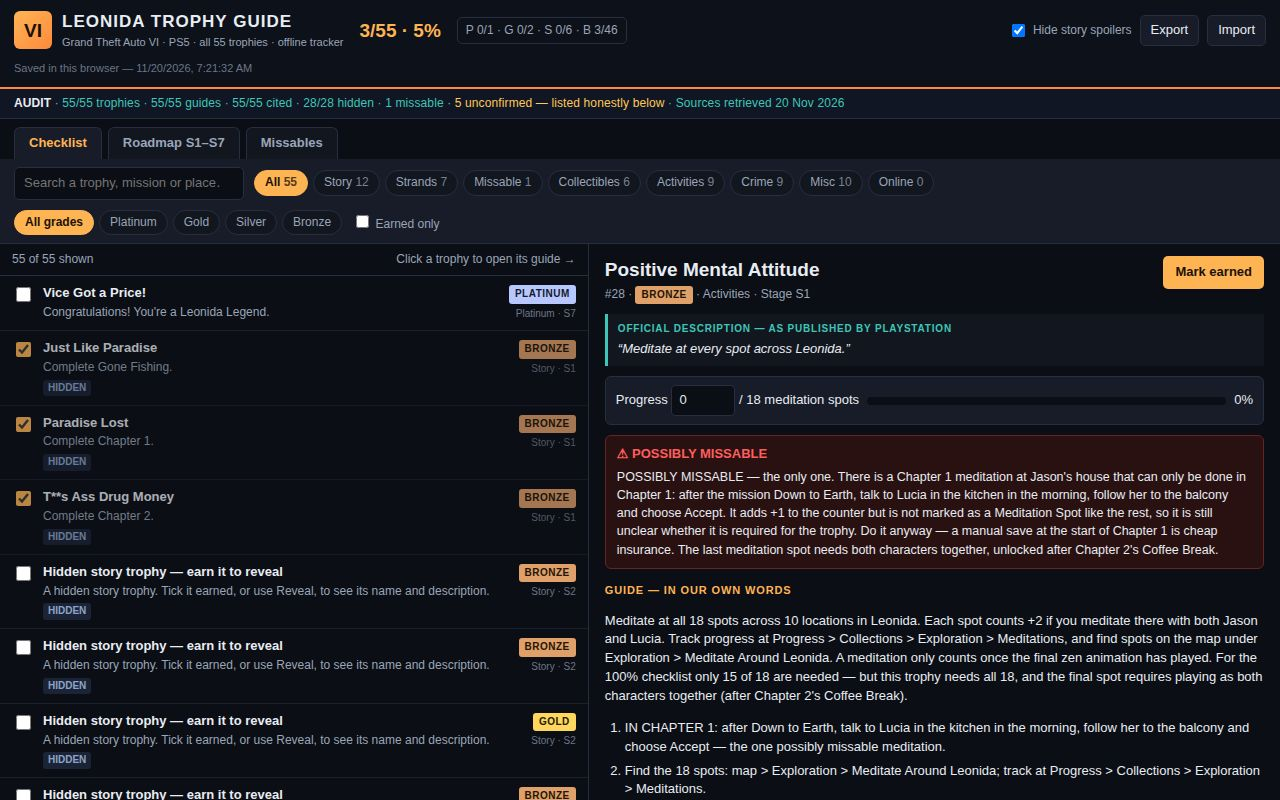
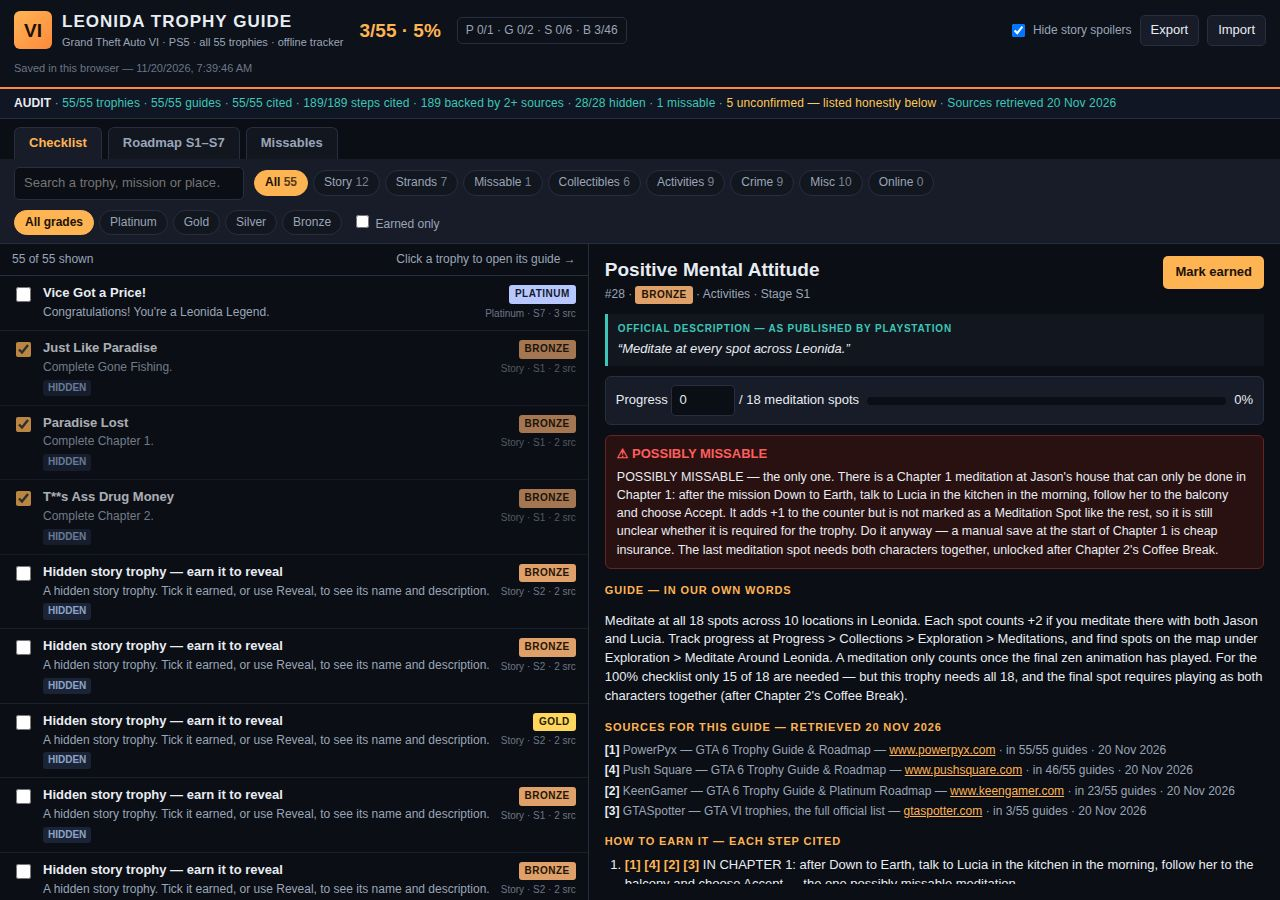
trophy-guide v2: visible per-step citations + sources panel + audit claim counts

diff --git a/app/app.js b/app/app.js
@@ -24,6 +24,41 @@ let trophies = [];
 let state = { earned: {}, counters: {}, spoiler: true, savedAt: null };
 let ui = { view: 'checklist', kind: 'all', grade: 'all', earnedOnly: false, search: '', selected: null };
 
+// Global source registry: the guides this entry cites, numbered once in
+// first-appearance order, so every step can carry its citations [n] and every
+// SOURCES panel can say how many of the 55 guides cite each one.
+let sourceRegistry = []; // [{name, url, count}] in first-appearance order
+let sourceIndex = {};    // url -> 1-based global number
+let auditSteps = { total: 0, cited: 0, backed2: 0 };
+function buildSourceRegistry() {
+  sourceRegistry = [];
+  sourceIndex = {};
+  for (const t of trophies) {
+    for (const s of (t.sources || [])) {
+      if (!(s.url in sourceIndex)) {
+        sourceIndex[s.url] = sourceRegistry.length + 1;
+        sourceRegistry.push({ name: s.name, url: s.url, count: 0 });
+      }
+    }
+  }
+  for (const t of trophies) {
+    const seen = new Set();
+    for (const s of (t.sources || [])) {
+      if (!seen.has(s.url)) { seen.add(s.url); sourceRegistry[sourceIndex[s.url] - 1].count++; }
+    }
+  }
+  auditSteps = { total: 0, cited: 0, backed2: 0 };
+  for (const t of trophies) {
+    const n = (t.steps || []).length;
+    auditSteps.total += n;
+    if (t.sources && t.sources.length) auditSteps.cited += n;
+    if (t.sources && t.sources.length >= 2) auditSteps.backed2 += n;
+  }
+}
+function sourceNumbers(t) { return (t.sources || []).map((s) => sourceIndex[s.url]); }
+function citeString(t) { return sourceNumbers(t).map((n) => '[' + n + ']').join(' '); }
+function shortHost(url) { return url.replace(/^https?:\/\//, '').split('/')[0]; }
+
 function loadState() {
   try {
     const raw = localStorage.getItem(KEY);
@@ -83,6 +118,7 @@ function renderAudit() {
   const unconf = trophies.filter((t) => t.unconfirmed).length;
   document.getElementById('audit').innerHTML =
     '<b>AUDIT</b> · ' + total + '/55 trophies · ' + guides + '/55 guides · ' + cited + '/55 cited · ' +
+    auditSteps.cited + '/' + auditSteps.total + ' steps cited · ' + auditSteps.backed2 + ' backed by 2+ sources · ' +
     hidden + '/28 hidden · ' + miss + ' missable · <span class="warn">' + unconf +
     ' unconfirmed — listed honestly below</span> · Sources retrieved ' + RETRIEVED;
 }
@@ -122,7 +158,7 @@ function renderList() {
       '<span><span class="t-name">' + escapeHtml(displayName(t)) + '</span><br>' +
       '<span class="t-desc">' + escapeHtml(displayDesc(t)) + '</span>' + counter + '<br>' + flags.join(' ') + '</span>' +
       '<span class="t-meta"><span class="grade ' + t.grade + '">' + t.grade + '</span>' +
-      '<span class="t-kind">' + (KIND_LABELS[t.kind] || t.kind) + ' · S' + t.stage + '</span></span></li>';
+      '<span class="t-kind">' + (KIND_LABELS[t.kind] || t.kind) + ' · S' + t.stage + ' · ' + (t.sources || []).length + ' src</span></span></li>';
   }).join('');
   ul.querySelectorAll('li').forEach((li) => li.addEventListener('click', (e) => {
     if (e.target.matches('input[type="checkbox"]')) return;
@@ -184,13 +220,24 @@ function renderDetail() {
       html += '<div class="unconf-box"><h3>UNCONFIRMED — LISTED HONESTLY</h3><p>' + escapeHtml(t.unconfirmed_note || '') + '</p></div>';
     }
     html += '<div class="d-sec">GUIDE — IN OUR OWN WORDS</div><p>' + escapeHtml(t.guide || '') + '</p>';
-    if (t.steps && t.steps.length) {
-      html += '<ol class="steps">' + t.steps.map((s) => '<li>' + escapeHtml(s) + '</li>').join('') + '</ol>';
-    }
     if (t.sources && t.sources.length) {
-      html += '<div class="d-sec">SOURCES — RETRIEVED ' + RETRIEVED.toUpperCase() + '</div><ol class="sources">' +
-        t.sources.map((s, i) => '<li>[' + (i + 1) + '] ' + escapeHtml(s.name) + ' — <a href="' + escapeHtml(s.url) +
-        '" target="_blank" rel="noopener">' + escapeHtml(s.url) + '</a></li>').join('') + '</ol>';
+      html += '<div class="d-sec">SOURCES FOR THIS GUIDE — RETRIEVED ' + RETRIEVED.toUpperCase() + '</div><ol class="sources">' +
+        t.sources.map((s) => {
+          const n = sourceIndex[s.url];
+          const cov = sourceRegistry[n - 1].count;
+          return '<li><b>[' + n + ']</b> ' + escapeHtml(s.name) + ' — <a href="' + escapeHtml(s.url) +
+            '" target="_blank" rel="noopener">' + escapeHtml(shortHost(s.url)) + '</a> · in ' + cov + '/55 guides · ' + RETRIEVED + '</li>';
+        }).join('') + '</ol>';
+    }
+    if (t.steps && t.steps.length) {
+      html += '<div class="d-sec">HOW TO EARN IT — EACH STEP CITED</div><ol class="steps">' +
+        t.steps.map((s) => '<li><span class="cite">' + citeString(t) + '</span> ' + escapeHtml(s) + '</li>').join('') + '</ol>';
+    }
+    if (t.dispute) {
+      html += '<div class="dispute-box"><h3>SOURCES DIFFER — ' + escapeHtml(t.dispute.question) + '</h3>' +
+        '<p><b>A ·</b> ' + escapeHtml(t.dispute.a) + ' <span class="cite">' + citeString(t) + '</span></p>' +
+        '<p><b>B ·</b> ' + escapeHtml(t.dispute.b) + ' <span class="cite">' + citeString(t) + '</span></p>' +
+        '<p><b>Our call:</b> ' + escapeHtml(t.dispute.call) + '</p></div>';
     }
     html += '<span class="stage-tag">Roadmap: ' + escapeHtml(stageName(t.stage)) + '</span>';
   }
@@ -305,6 +352,7 @@ async function init() {
     const res = await fetch(DATA_URL);
     const data = await res.json();
     trophies = data.trophies || data;
+    buildSourceRegistry();
   } catch (e) {
     document.getElementById('audit').textContent = 'Could not load data/trophies.json — check the file is present.';
     window.__shotReady = true;

diff --git a/app/style.css b/app/style.css
@@ -109,6 +109,12 @@ button { font: inherit; cursor: pointer; }
 .sources { list-style: none; margin: 0; padding: 0; font-size: 12px; }
 .sources li { margin-bottom: 3px; color: var(--muted); }
 .sources a { word-break: break-all; }
+.sources li b { color: var(--text); }
+.cite { color: var(--accent); font-weight: 800; white-space: nowrap; }
+.dispute-box { border: 1px solid #3a5a7a; background: #101c2a; border-radius: 6px; padding: 9px 11px; margin: 10px 0; }
+.dispute-box h3 { margin: 0 0 4px; color: #8fc3e8; font-size: 13px; }
+.dispute-box p { margin: 0 0 4px; font-size: 12.5px; }
+.dispute-box p:last-child { margin-bottom: 0; }
 .stage-tag { display: inline-block; background: var(--panel2); border: 1px solid var(--line);
   border-radius: 4px; padding: 2px 7px; font-size: 11px; color: var(--muted); margin-top: 8px; }
 
